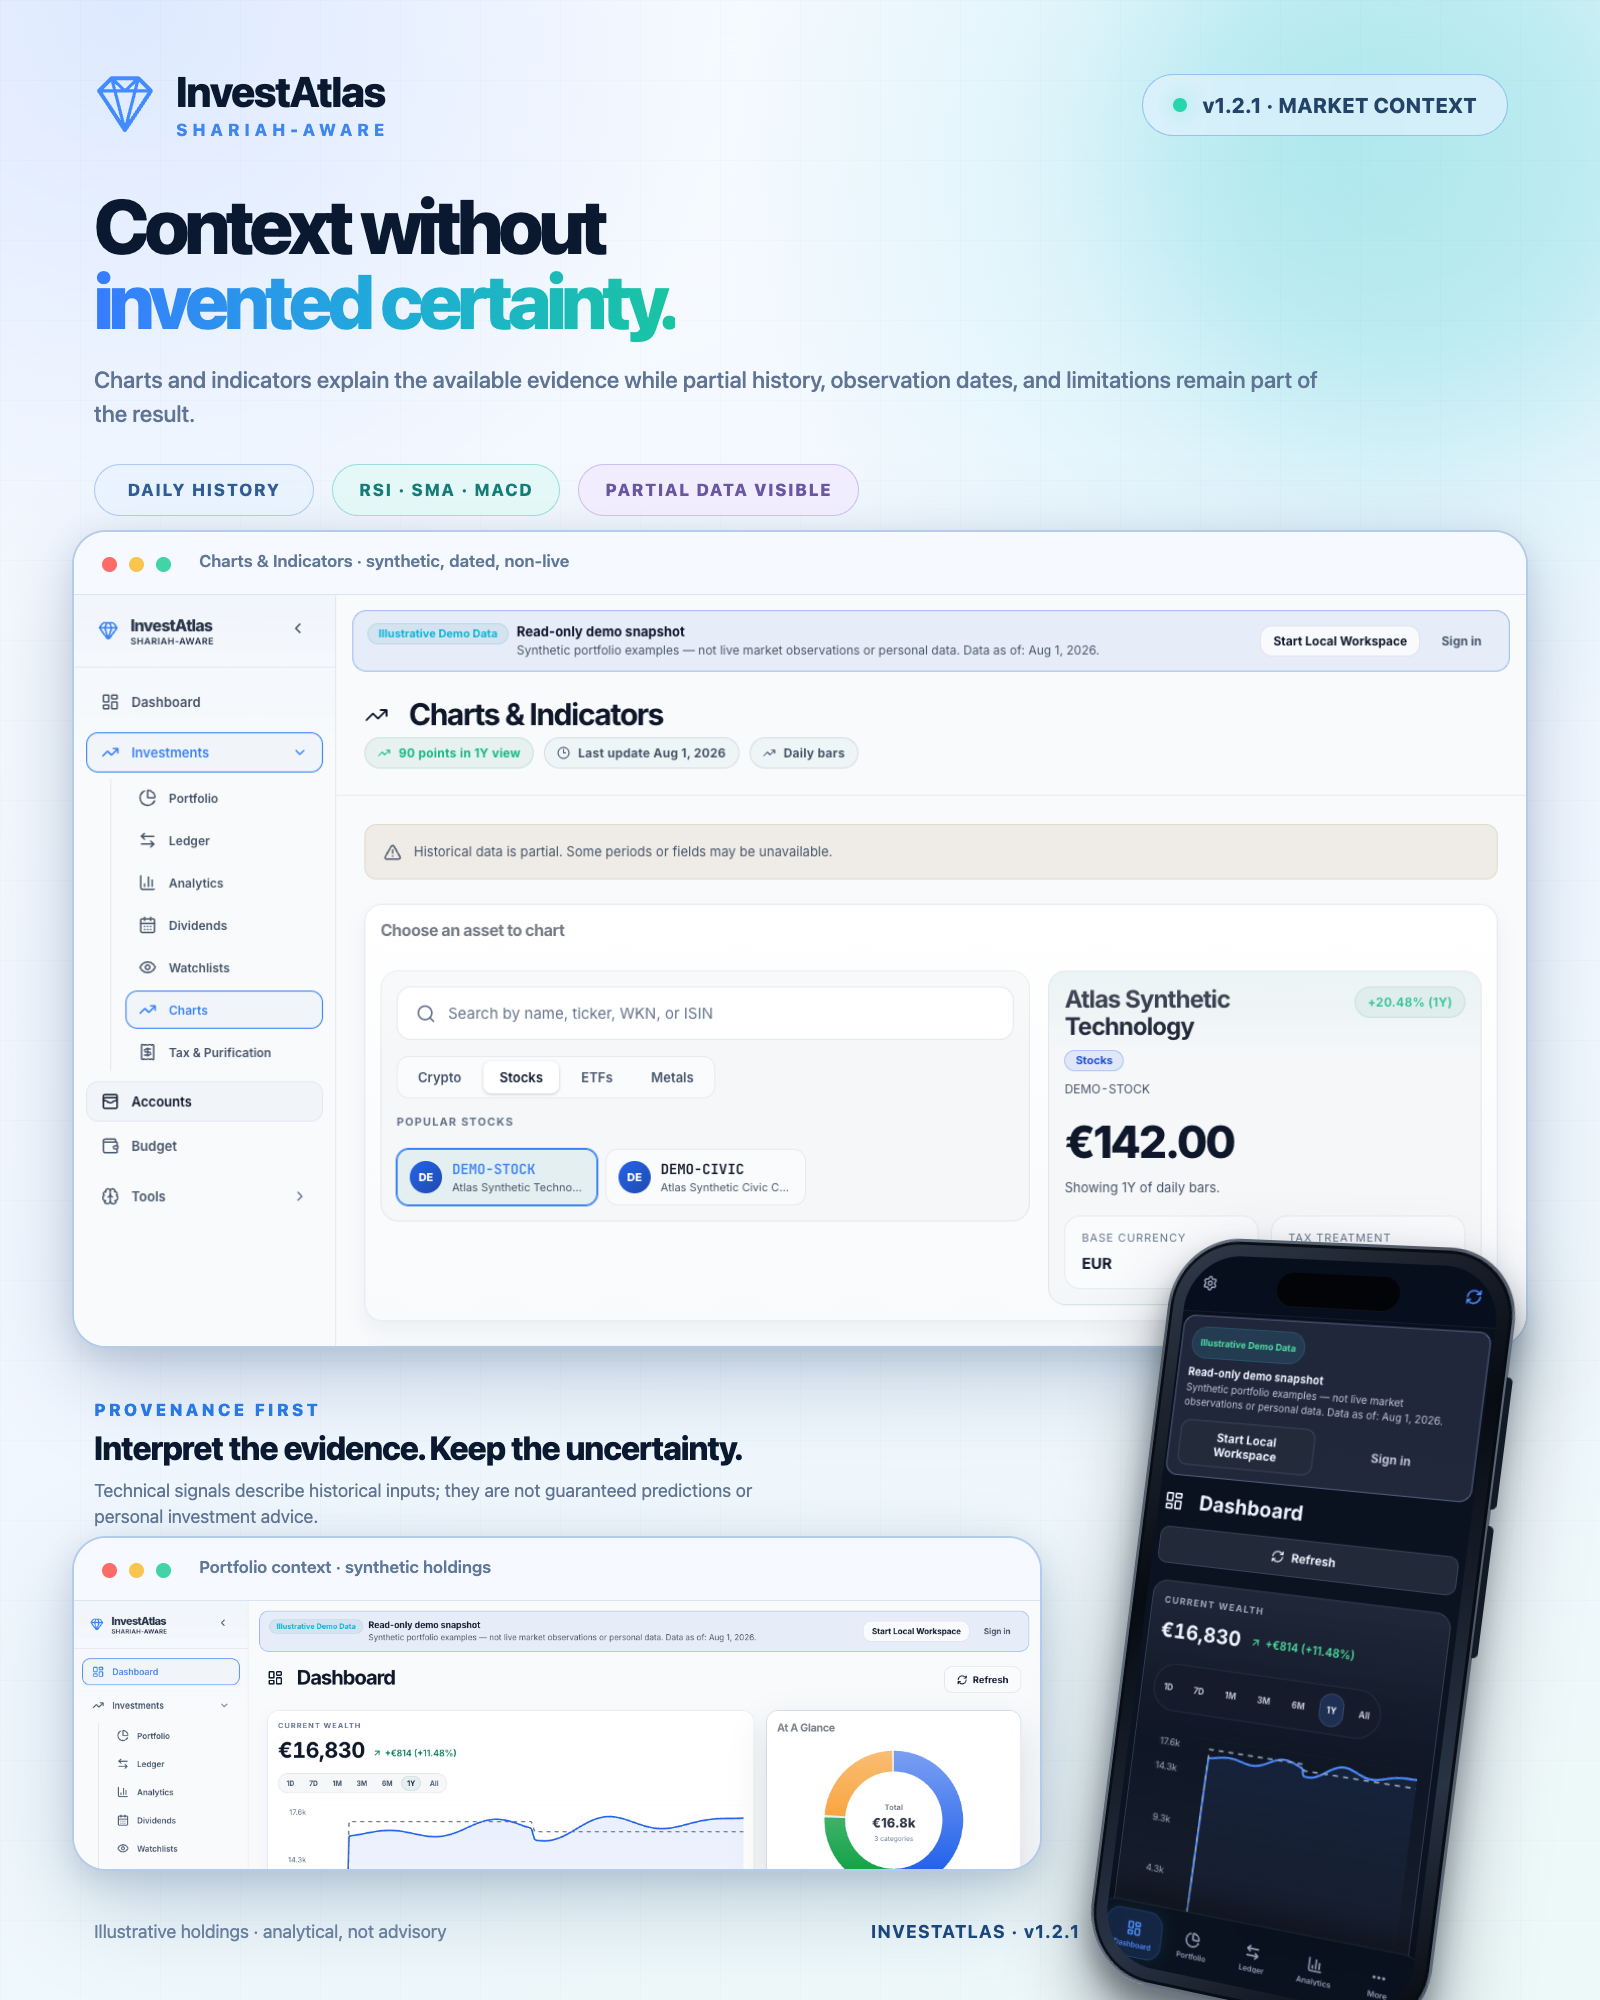
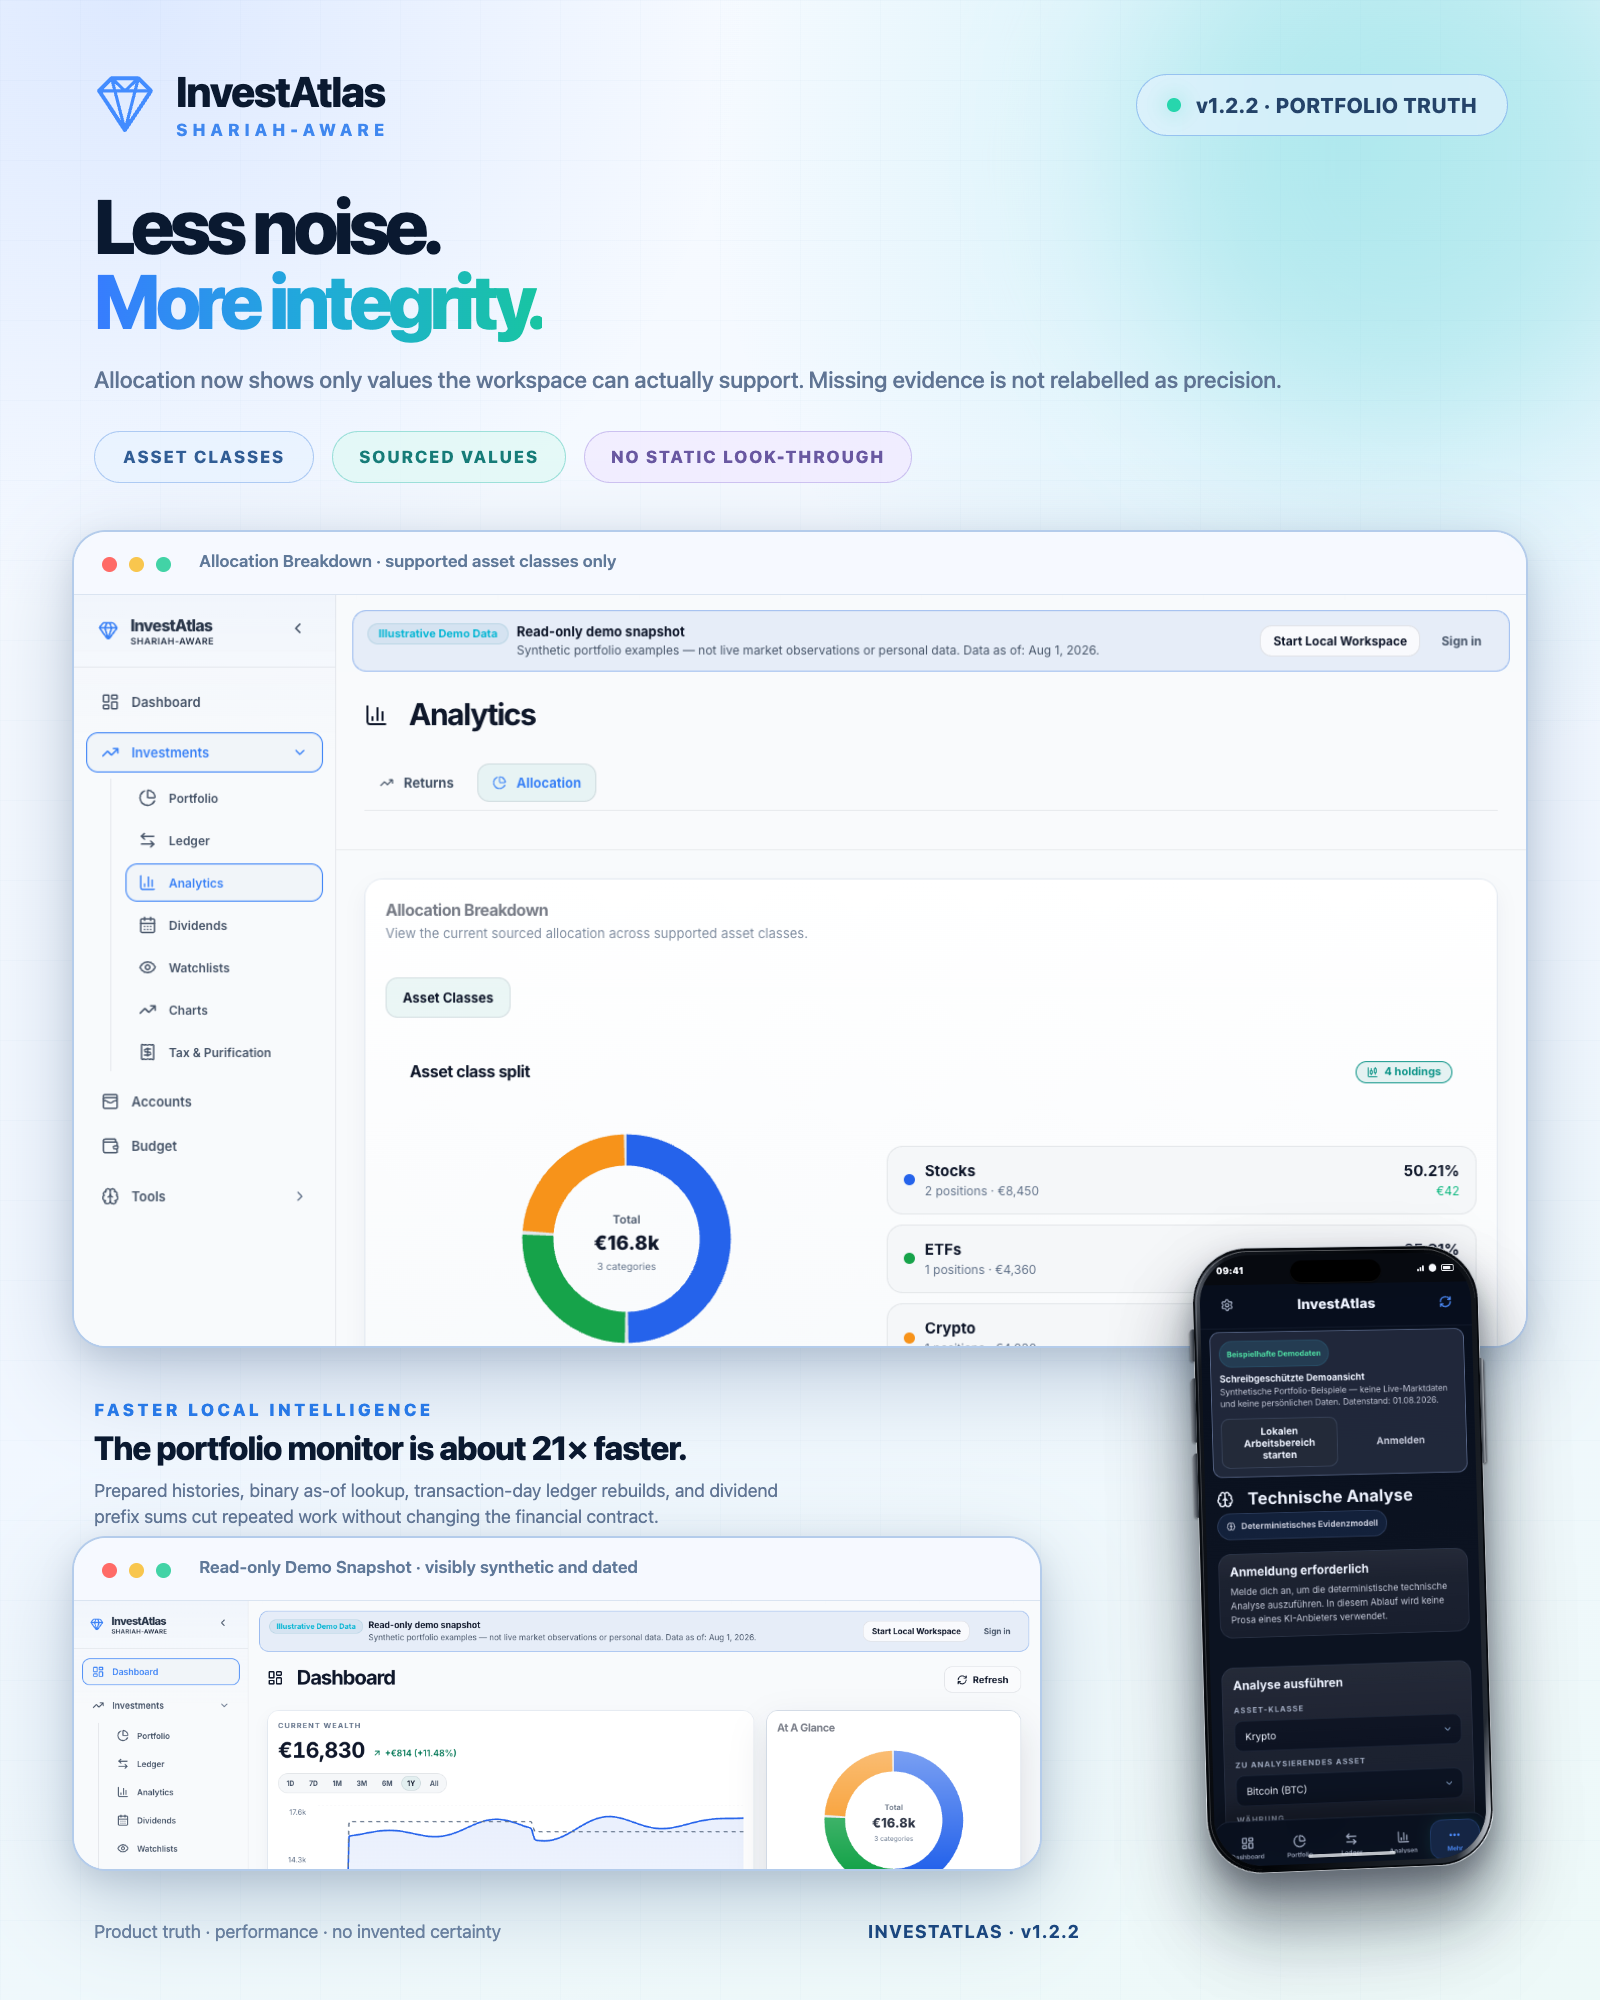
docs: publish v1.2.2 showcase

diff --git a/README.md b/README.md
@@ -8,9 +8,9 @@ InvestAtlas is a public Demo/Showcase built with production-quality engineering.
 
 InvestAtlas helps Muslim investors understand what a transparent, implemented screening methodology says about their portfolio: compliant, non-compliant, review required, or insufficient data. Missing evidence never becomes a positive result.
 
-Around that trust-first core, the app combines portfolio tracking, allocation analytics, country-aware tax awareness, technical strategy tools, purification support, optional AI interpretation, and multilingual desktop/mobile experiences.
+Around that trust-first core, the app combines portfolio tracking, sourced asset-class analytics, country-aware tax awareness, technical strategy tools, purification support, optional AI-assisted transaction import, and multilingual desktop/mobile experiences.
 
-Current public release: **v1.2.1 — Provider Truth & AI Key UX Patch**
+Current public release: **v1.2.2 — Trust & Trilingual Baseline**
 
 ## 🧭 Product Priorities
 
@@ -18,8 +18,8 @@ Current public release: **v1.2.1 — Provider Truth & AI Key UX Patch**
 | --- | --- |
 | 🕌 Halal / Shariah Awareness | Distinguish compliant, non-compliant, review-required, and insufficient-data results |
 | 🧼 Purification | Calculate only when the required inputs are available; keep known zero separate from missing data |
-| 🤖 AI Interpretation | Explain sourced or calculated information through optional user-owned AI providers without inventing fundamentals |
-| 🎯 Savings-Plan Planning | Use budget, allocation, and all-time-high drawdown context to plan more cautious or more aggressive DCA-style buys |
+| 🤖 AI Boundary | Use an optional user-owned provider only for reviewed transaction-document extraction; AI never supplies missing fundamentals or market data |
+| 🎯 Savings-Plan Planning | Build recurring contribution scenarios with manual target allocations and transparent source availability |
 
 ## ✨ Main Highlights
 
@@ -29,38 +29,38 @@ Current public release: **v1.2.1 — Provider Truth & AI Key UX Patch**
 | 🧼 Purification | Show a result only when the required financial inputs are known |
 | 📊 Portfolio Dashboard | See total wealth, performance, allocation, and top holdings |
 | 💼 Multi-Asset Tracking | Track stocks, ETFs, crypto, metals, and cash-oriented positions |
-| 📈 Analytics | Review investments, asset classes, regions, sectors, volatility, and returns |
+| 📈 Analytics | Review investments, sourced asset-class allocation, performance, and data coverage without unsourced look-through heuristics |
 | 🌍 Tax Awareness | Use a country-aware tax profile so the user can work with their own country assumptions |
 | 🧪 Strategy Lab | Explore SMA, Dual-SMA, momentum, Golden Cross, Death Cross, and backtesting concepts |
-| 🎯 Crypto Plan | Plan savings/DCA allocation from budget, ATH drawdown, and AI-assisted reasoning |
-| 🤖 Ask AI | Connect a user-owned AI provider through masked, server-managed key metadata |
+| 🎯 Crypto Plan | Plan savings/DCA allocation manually from budget and explicit target percentages |
+| 🤖 Optional AI Import | Connect a user-owned provider through masked, server-managed key metadata for reviewed transaction-document extraction |
 | 🧭 Demo Snapshot | Explore a dated, read-only synthetic portfolio that never enters personal calculations |
 | 🔎 Financial Data Trust | Keep source, currency, freshness, calculation, partial-data, and unavailable states visible |
 | ☁ Demo, Local, or Cloud | Use the isolated showcase, an editable browser workspace, or Firebase as the signed-in cloud path |
 | 🌐 Multilingual UI | Use English/LTR, selectable German/LTR, or Arabic/RTL; broader German linguistic QA remains ongoing |
 
-## 🤖 Ask AI With User-Owned API Keys
+## 🤖 Optional AI Providers
 
 InvestAtlas does not depend on a shared public AI key. A signed-in user can optionally connect a supported provider. Keys are sent to authenticated server routes, stored encrypted in the user's cloud data, and returned to the browser only as masked metadata.
 
 Possible providers:
 
-| Provider | Good for |
+| Provider | v1.2.2 support |
 | --- | --- |
-| Gemini | Google Gemini API access for general AI explanations |
-| Groq | Fast inference with documented free-plan limits |
-| OpenRouter | Access to many models, including free model routes where available |
-| OpenAI | Direct OpenAI API access with optional organization/project metadata |
+| Gemini | Transaction-document import through fixed Google Gemini endpoints |
+| Groq | Transaction-document import through fixed Groq endpoints |
+| OpenRouter | Transaction-document import through fixed OpenRouter endpoints |
+| OpenAI | Transaction-document import through fixed OpenAI endpoints, with optional organization/project metadata |
 
-AI can explain existing portfolio information, allocation, risk, strategy calculations, momentum, SMA crossovers, and planning context. AI output is interpretation—not sourced financial data—and must not be treated as financial advice. Arbitrary custom AI URLs remain disabled; supported providers use fixed, server-controlled endpoints.
+In v1.2.2, AI is limited to a user-initiated transaction-document import proposal. The document is sent only to the highest-priority enabled provider and is never automatically forwarded to a fallback provider. The user must review the extracted rows before applying them. Technical Analysis is deterministic and local; AI does not provide market prices, fundamentals, portfolio recommendations, or Savings-Plan allocations. Arbitrary custom AI URLs remain disabled; supported providers use fixed, server-controlled endpoints.
 
 ## 🚀 How To Start
 
 1. Open the InvestAtlas demo link.
 2. Review and accept the linked Demo terms, privacy information, and financial-data limitations.
 3. Explore the read-only **Demo Snapshot**, or start a separate editable **Local Workspace**.
-4. Sign in only when you want a Firebase-backed personal workspace or optional AI interpretation.
-5. Add a supported user-owned AI key in Settings if you want to use AI-assisted features.
+4. Sign in only when you want a Firebase-backed personal workspace or optional AI-assisted transaction import.
+5. Add a supported user-owned AI key in Settings only if you want reviewed transaction-document import.
 
 The core Demo remains usable without an account, AI key, or financial-data key.
 
@@ -70,43 +70,54 @@ v1.2 introduces a field-level trust model for availability, source, currency, fr
 
 The public hosted release intentionally activates only official European Central Bank reference FX. Shared stock and crypto quote/history providers remain disabled while display, proxy, permission, or redistribution rights are unresolved. A Tiingo BYOK adapter exists for local engineering, but hosted connection and market-data display remain disabled pending written rights clarification. The signed-out Demo Snapshot stays useful through clearly labelled, dated synthetic examples that are isolated from personal data.
 
-## 🧪 Strategy And Savings-Plan Intelligence
+## 🧪 Strategy And Manual Savings-Plan Tools
 
 The Strategy Lab includes SMA and Dual-SMA concepts. A Golden Cross style signal occurs when a shorter moving average crosses above a longer moving average. A Death Cross style signal occurs when a shorter moving average crosses below a longer moving average.
 
-The Crypto Plan / savings-plan area can use budget, selected assets, all-time-high drawdown, and AI-assisted reasoning to suggest whether an asset should receive more cautious allocation near ATH or stronger allocation after a larger drawdown.
+The Crypto Plan / savings-plan area keeps allocation decisions manual. It can show source availability and planning context, but it does not generate or apply AI portfolio allocations.
 
 ## 🖼 Screenshots
 
-### v1.2.1 Demo Snapshot Overview
+### v1.2.2 Product-Truth Overview
 
 <p align="center">
-  <img src="screenshots/poster-light-mode-overview.png" alt="InvestAtlas v1.2.1 read-only synthetic Demo Snapshot and hosted provider transparency in light mode with a 3D iPhone presentation" width="720">
+  <img src="screenshots/poster-light-mode-overview.png" alt="InvestAtlas v1.2.2 product-truth overview with a read-only synthetic Demo Snapshot and German 3D iPhone presentation" width="720">
 </p>
 
-### v1.2.1 Financial Data Trust & Dark Mode
+### v1.2.2 Technical-Analysis Trust & Dark Mode
 
 <p align="center">
-  <img src="screenshots/poster-dark-mode.png" alt="InvestAtlas v1.2.1 financial-data provenance and fail-closed states in dark mode with an Arabic RTL 3D iPhone view" width="720">
+  <img src="screenshots/poster-dark-mode.png" alt="InvestAtlas v1.2.2 deterministic technical-analysis trust boundary in dark mode with an Arabic RTL 3D iPhone view" width="720">
 </p>
 
 The screening interface exposes unavailable evidence and the implemented methodology's limitations. It does not present an automated result as a fatwa or replace qualified scholarly advice.
 
-### v1.2.1 Market Context
+### v1.2.2 Sourced Analytics & Performance
 
 <p align="center">
-  <img src="screenshots/poster-light-mode-analytics.png" alt="InvestAtlas v1.2.1 visibly synthetic and dated charts and indicators with a 3D iPhone presentation" width="720">
+  <img src="screenshots/poster-light-mode-analytics.png" alt="InvestAtlas v1.2.2 sourced asset-class allocation and performance improvements with a German 3D iPhone presentation" width="720">
 </p>
 
 ### Light, Dark & Multilingual UI
 
 <p align="center">
-  <img src="screenshots/poster-light-dark-compare.png" alt="InvestAtlas v1.2.1 responsive light and dark interfaces with English LTR, selectable German, and Arabic RTL on 3D iPhone presentations" width="720">
+  <img src="screenshots/poster-light-dark-compare.png" alt="InvestAtlas v1.2.2 English LTR, German LTR, and Arabic RTL responsive interfaces with dimensional iPhone presentations" width="720">
 </p>
 
-The poster set uses the current v1.2.1 Production UI, read-only Demo Snapshot, and real hosted-provider policy. All holdings and charts shown are synthetic and dated. English and Arabic/RTL are shown directly; German is selectable, while broader German linguistic and mobile QA remains planned.
+The poster set uses the current v1.2.2 Production UI, read-only Demo Snapshot, and real hosted-provider policy. All holdings and charts shown are synthetic and dated. English/LTR, German/LTR, and Arabic/RTL are shown directly across the reviewed set.
 
 ## 🧾 Release History
+
+### v1.2.2 — Trust & Trilingual Baseline
+
+- Replaced action-oriented AI verdicts with deterministic, non-advisory technical posture and removed provider-generated analysis prose.
+- Disabled AI-generated Savings-Plan allocations while preserving manual planning workflows.
+- Limited transaction-document import to one highest-priority enabled AI provider, with explicit user review and no automatic fallback forwarding.
+- Removed unsourced ETF look-through, region/sector allocation, and heuristic volatility from personal Analytics.
+- Reframed gold/silver as a neutral same-date calculated ratio with non-predictive reference bands.
+- Added complete German legal bodies and focused English/German/Arabic desktop/mobile QA, including Arabic RTL and accessible mobile navigation.
+- Made quote refresh visibility-aware, overlap-safe, and resistant to stale-request races; optimized a representative 365-day portfolio-monitor benchmark by roughly 21×.
+- Added shared route loading/error/not-found states and refreshed the four-poster set with real v1.2.2 UI and polished dimensional iPhone frames.
 
 ### v1.2.1 — Provider Truth & AI Key UX Patch
 
@@ -194,4 +205,4 @@ Not included here:
 
 InvestAtlas is a public Demo/Showcase and portfolio project, not a broker, paid financial product, or investment-advisory service.
 
-It does not provide financial, investment, tax, legal, or religious advice. Calculations, country-specific tax assumptions, Shariah-related checks, analytics, and AI-assisted interpretations are informational only. Screening states describe the implemented methodology and available evidence—not a binding religious ruling.
+It does not provide financial, investment, tax, legal, or religious advice. Calculations, country-specific tax assumptions, Shariah-related checks, analytics, and AI-assisted transaction-import proposals are informational only. Screening states describe the implemented methodology and available evidence—not a binding religious ruling.
